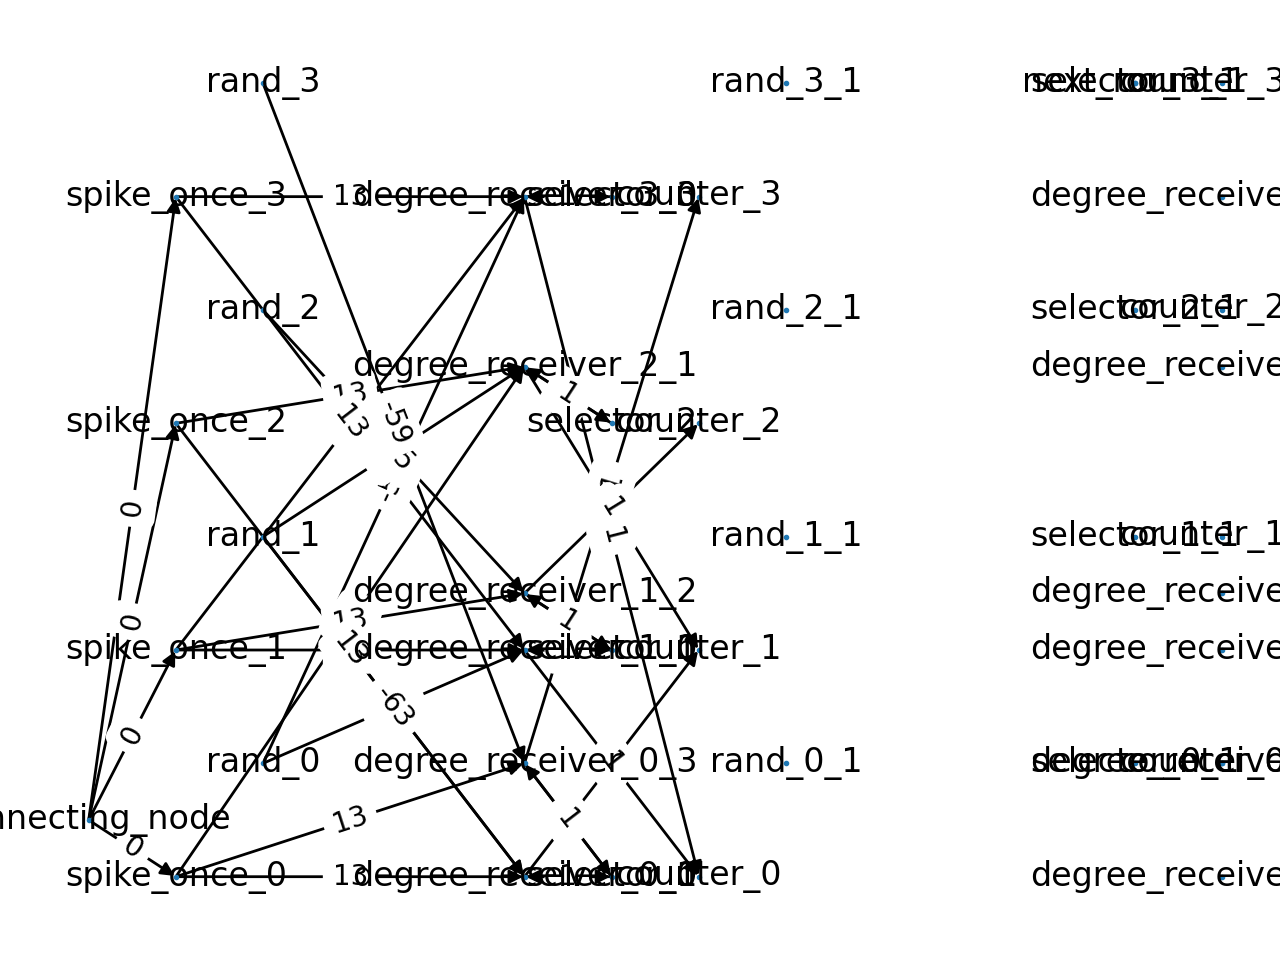
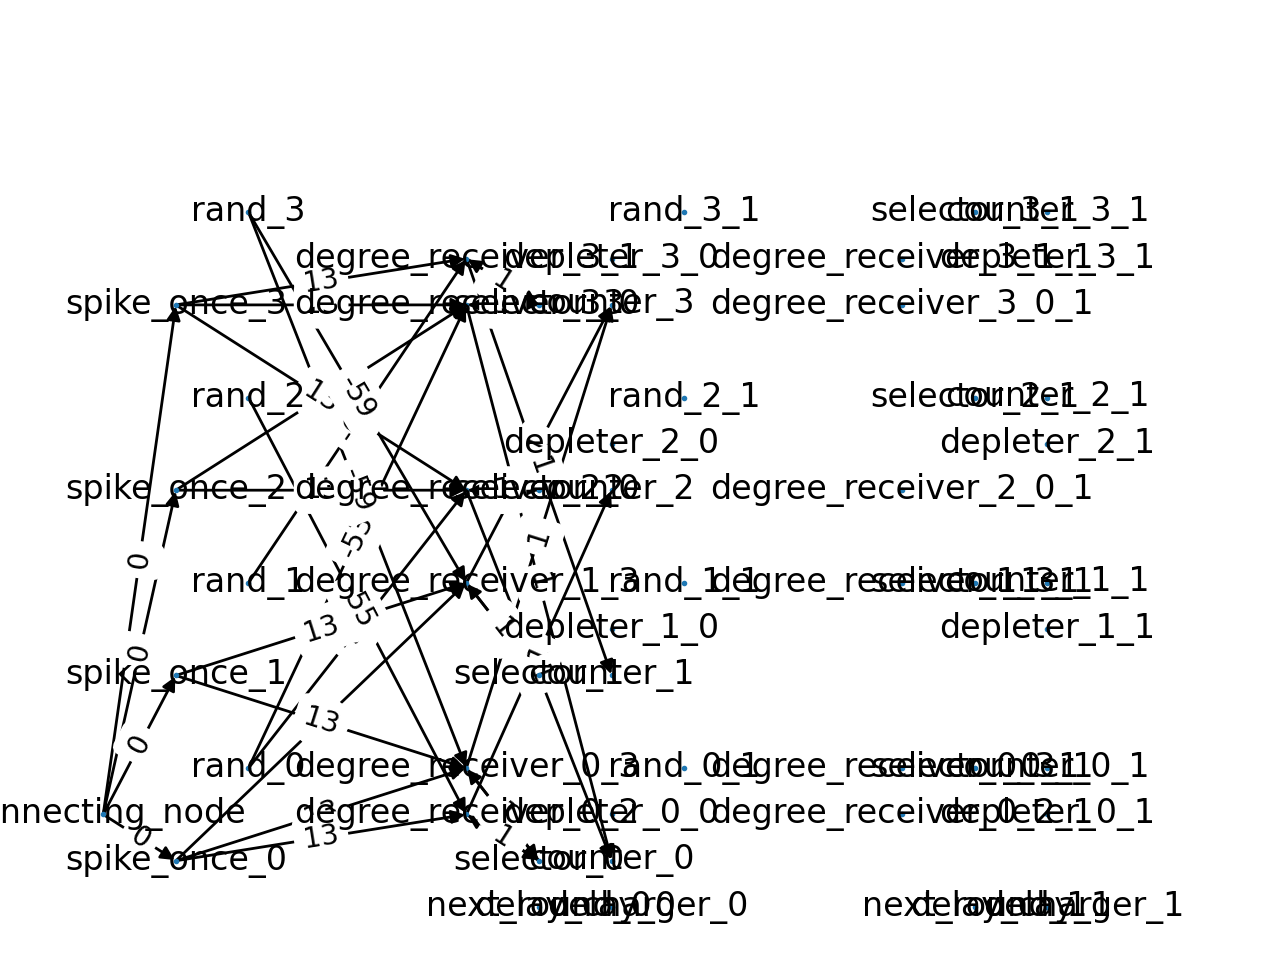
Widened border around plot.

diff --git a/src/helper_network_structure.py b/src/helper_network_structure.py
@@ -25,7 +25,7 @@ def get_weight_receiver_synapse_paths_fully_connected(G):
     return G
 
 
-def get_degree_graph_with_separate_wta_circuits(G, rand_nrs, rand_ceil,m=2):
+def get_degree_graph_with_separate_wta_circuits(G, rand_nrs, rand_ceil, m=2):
     """Returns a networkx graph that represents the snn that computes the
     spiking degree in the degree_receiver neurons.
     One node in the graph represents one neuron.
@@ -64,21 +64,20 @@ def get_degree_graph_with_separate_wta_circuits(G, rand_nrs, rand_ceil,m=2):
             pos=(float(0), float(node)),
         )
 
-        
         for neighbour in nx.all_neighbors(G, node):
             if node != neighbour:
                 # One neuron per node named: degree_receiver_0-n.
                 get_degree.add_node(
-                f"degree_receiver_{node}_{neighbour}",
-                id=node,
-                du=0,
-                dv=1,
-                bias=0,
-                vth=1,
-                pos=(float(1.0), get_y_position(G, node, neighbour)),
-            )
+                    f"degree_receiver_{node}_{neighbour}",
+                    id=node,
+                    du=0,
+                    dv=1,
+                    bias=0,
+                    vth=1,
+                    pos=(float(1.0), get_y_position(G, node, neighbour)),
+                )
 
-            for loop in range(1,m):
+            for loop in range(1, m):
                 get_degree.add_node(
                     f"degree_receiver_{node}_{neighbour}_{loop}",
                     id=node,
@@ -86,7 +85,7 @@ def get_degree_graph_with_separate_wta_circuits(G, rand_nrs, rand_ceil,m=2):
                     dv=1,
                     bias=0,
                     vth=1,
-                    pos=(float(1.5+loop*1.5), get_y_position(G, node, neighbour)),
+                    pos=(float(1.0 + loop * 1.5), get_y_position(G, node, neighbour)),
                 )
 
         # One neuron per node named: rand
@@ -105,16 +104,16 @@ def get_degree_graph_with_separate_wta_circuits(G, rand_nrs, rand_ceil,m=2):
             pos=(float(0.25), float(node) + 0.5),
         )
 
-        for loop in range(1,m):
+        for loop in range(1, m):
             get_degree.add_node(
-            f"rand_{node}_{loop}",
-            id=node,
-            du=0,
-            dv=0,
-            bias=2,
-            vth=1,
-            pos=(float(0.25+loop*1.5), float(node) + 0.5),
-        )
+                f"rand_{node}_{loop}",
+                id=node,
+                du=0,
+                dv=0,
+                bias=2,
+                vth=1,
+                pos=(float(0.25 + loop * 1.5), float(node) + 0.5),
+            )
 
         # Add winner selector node
         get_degree.add_node(
@@ -127,16 +126,16 @@ def get_degree_graph_with_separate_wta_circuits(G, rand_nrs, rand_ceil,m=2):
             pos=(float(1.25), float(node)),
         )
 
-        for loop in range(1,m):
+        for loop in range(1, m):
             get_degree.add_node(
-            f"selector_{node}_{loop}",
-            id=node,
-            du=0,
-            dv=0,
-            bias=2,
-            vth=1,
-            pos=(float(1.25+loop*1.5), float(node) + 0.5),
-        )
+                f"selector_{node}_{loop}",
+                id=node,
+                du=0,
+                dv=0,
+                bias=2,
+                vth=1,
+                pos=(float(1.25 + loop * 1.5), float(node) + 0.5),
+            )
 
         # Add winner selector node
         get_degree.add_node(
@@ -149,29 +148,59 @@ def get_degree_graph_with_separate_wta_circuits(G, rand_nrs, rand_ceil,m=2):
             pos=(float(1.5), float(node)),
         )
 
-        for loop in range(1,m):
+        for loop in range(1, m):
             get_degree.add_node(
-            f"counter_{node}_{loop}",
-            id=node,
-            du=0,
-            dv=0,
-            bias=2,
-            vth=1,
-            pos=(float(1.5+loop*1.5), float(node) + 0.5),
-        )
+                f"counter_{node}_{loop}",
+                id=node,
+                du=0,
+                dv=0,
+                bias=2,
+                vth=1,
+                pos=(float(1.5 + loop * 1.5), float(node) + 0.5),
+            )
 
+        for loop in range(0, m):
+            get_degree.add_node(
+                f"depleter_{node}_{loop}",
+                id=node,
+                du=1,
+                dv=1,
+                bias=0,
+                vth=0,
+                pos=(float(1.5 + loop * 1.5), float(node) + 0.25),
+            )
 
         # Create next round connector neurons.
-        for loop in range(1,m):
+        for loop in range(0, m):
             get_degree.add_node(
-            f"next_round_{loop}",
-            id=node,
-            du=0,
-            dv=1,
-            bias=0,
-            vth=len(G.nodes)-1,
-            pos=(float(1.25+loop*1.5), float(node) + 0.5),
-        )
+                f"next_round_{loop}",
+                id=node,
+                du=0,
+                dv=1,
+                bias=0,
+                vth=len(G.nodes) - 1,
+                pos=(float(1.25 + loop * 1.5), -0.25),
+            )
+
+            get_degree.add_node(
+                f"delay_charger_{loop}",
+                id=node,
+                du=0,
+                dv=1,
+                bias=0,
+                vth=0,
+                pos=(float(1.5 + loop * 1.5), -0.25),
+            )
+
+            get_degree.add_node(
+                f"delay_{loop}",
+                id=node,
+                du=0,
+                dv=1,
+                bias=0,
+                vth=0,
+                pos=(float(1.5 + loop * 1.5), -0.25),
+            )
 
     # Ensure SNN graph is connected(Otherwise, recurrent snn builder can not span/cross the network.)
     for circuit in G.nodes:
@@ -306,12 +335,12 @@ def plot_unstructured_graph(G, iteration, size, show=False):
     edge_labels = nx.get_edge_attributes(G, "weight")
     nx.draw_networkx_edge_labels(G, graphviz_layout(G), edge_labels)
     # plotting a line plot after changing it's width and height
-    #f = plt.figure()
-    #f.set_figwidth(10)
-    #f.set_figheight(10)
+    # f = plt.figure()
+    # f.set_figwidth(10)
+    # f.set_figheight(10)
     plt.subplots_adjust(left=0.0, right=4.0, bottom=0.0, top=4.0)
     # plt.savefig('this.png')
-    if True:
+    if show:
         plt.show()
     # plt.savefig()
     plot_export = Plot_to_tex()
@@ -328,10 +357,14 @@ def plot_coordinated_graph(G, iteration, size, show=False):
     edge_labels = nx.get_edge_attributes(G, "weight")
     nx.draw_networkx_edge_labels(G, pos, edge_labels)
 
-    #f = plt.figure()
-    #f.set_figwidth(10)
-    #f.set_figheight(10)
-    plt.subplots_adjust(left=0.0, right=4.0, bottom=0.0, top=4.0)
+    plt.axis("off")
+    axis = plt.gca()
+    axis.set_xlim([1.2 * x for x in axis.get_xlim()])
+    axis.set_ylim([1.2 * y for y in axis.get_ylim()])
+    # f = plt.figure()
+    # f.set_figwidth(10)
+    # f.set_figheight(10)
+    # plt.subplots_adjust(left=0.0, right=4.0, bottom=0.0, top=4.0)
     if show:
         plt.show()
 

diff --git a/src/export_data/Plot_to_tex.py b/src/export_data/Plot_to_tex.py
@@ -218,7 +218,7 @@ class Plot_to_tex:
 
     def export_plot(self, plt, filename):
         self.create_target_dir_if_not_exists(f"latex/Images/", "graphs")
-        plt.savefig(f"latex/Images/" + "graphs/" + filename + ".png",figsize=(8, 6),dpi=200)
+        plt.savefig(f"latex/Images/" + "graphs/" + filename + ".png", dpi=200)
 
     def create_target_dir_if_not_exists(self, path, new_dir_name):
         if os.path.exists(path):

diff --git a/test/test_algo_p1.py b/test/test_algo_p1.py
@@ -62,6 +62,7 @@ class Test_counter(unittest.TestCase):
                 # G=create_manual_graph_with_4_nodes()
                 # Initialise paramers used for testing.
                 test_object = create_test_object(G, retry, False, False)
+                raise Exception("STOP")
                 # test_object = create_test_object(self,G,True,True)
 
                 # Run default tests on neurons

diff --git a/src/helper.py b/src/helper.py
@@ -538,6 +538,7 @@ def degree_receiver_x_y_is_connected_to_counter_z(
     # raise Exception("Would have expected to find x and y.")
     return False
 
+
 def get_x_position(m):
     """Ensures the degree receiver nodes per node are aligned with
     continuous interval. for example for node 1, the positions 0,2,3 are
